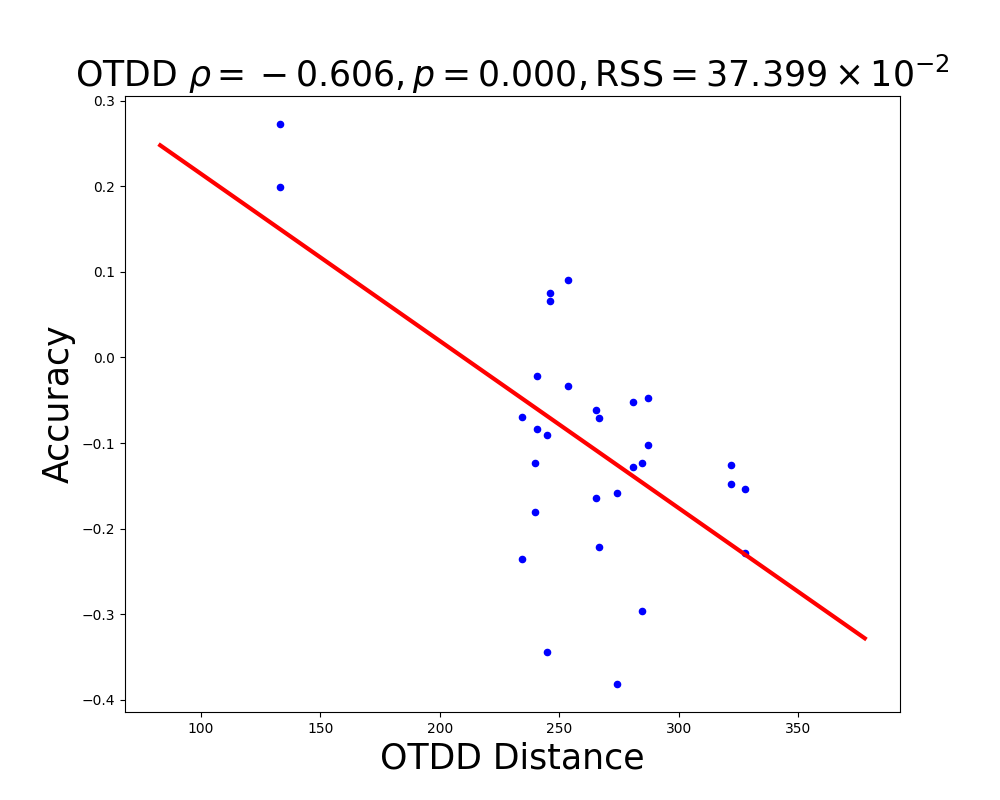
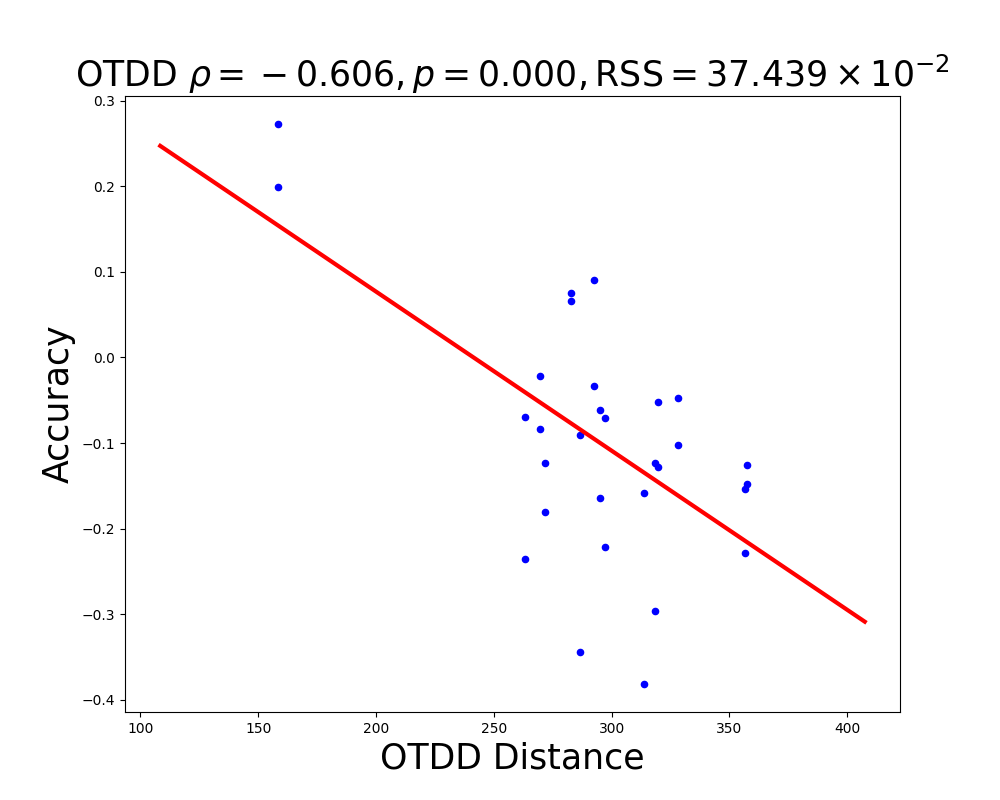
h

diff --git a/split_mnist.py b/split_mnist.py
@@ -100,7 +100,7 @@ def main():
 
     dataloaders = []
     for subset in subsets:
-        dataloader = DataLoader(subset, batch_size=32, shuffle=True)
+        dataloader = DataLoader(subset, batch_size=128, shuffle=True)
         dataloaders.append(dataloader)
 
 
@@ -112,7 +112,7 @@ def main():
     kwargs = {
         "dimension": 784,
         "num_channels": 1,
-        "num_moments": 8,
+        "num_moments": 5,
         "use_conv": False,
         "precision": "float",
         "p": 2,
@@ -160,9 +160,39 @@ def main():
     with open(f'{save_dir}/time_running.txt', 'a') as file:
         file.write(f"Time proccesing for OTDD (exact): {otdd_time_taken} \n")
 
+
+
+
     # OTDD
     dict_OTDD = torch.zeros(len(dataloaders), len(dataloaders))
-    print("Compute OTDD (gaussian_approx)...")
+    print("Compute OTDD (gaussian_approx, iter 20)...")
+    start_time_otdd = time.time()
+    for i in range(len(dataloaders)):
+        for j in range(i+1, len(dataloaders)):
+            start_time_otdd = time.time()
+            dist = DatasetDistance(dataloaders[i],
+                                    dataloaders[j],
+                                    inner_ot_method='gaussian_approx',
+                                    debiased_loss=True,
+                                    p=2,
+                                    sqrt_method='approximate',
+                                    nworkers_stats=0,
+                                    sqrt_niters=20,
+                                    entreg=1e-3,
+                                    device=DEVICE)
+            d = dist.distance(maxsamples=None).item()
+            dict_OTDD[i][j] = d
+            dict_OTDD[j][i] = d
+    end_time_otdd = time.time()
+    otdd_time_taken = end_time_otdd - start_time_otdd
+    torch.save(dict_OTDD, f'{save_dir}/ga_otdd_dist.pt')
+    with open(f'{save_dir}/time_running.txt', 'a') as file:
+        file.write(f"Time proccesing for OTDD (gaussian_approx, iter 20): {otdd_time_taken} \n")
+
+
+
+    dict_OTDD = torch.zeros(len(dataloaders), len(dataloaders))
+    print("Compute OTDD (gaussian_approx, iter 10)...")
     start_time_otdd = time.time()
     for i in range(len(dataloaders)):
         for j in range(i+1, len(dataloaders)):
@@ -180,14 +210,14 @@ def main():
             d = dist.distance(maxsamples=None).item()
             dict_OTDD[i][j] = d
             dict_OTDD[j][i] = d
-
     end_time_otdd = time.time()
     otdd_time_taken = end_time_otdd - start_time_otdd
-    print(otdd_time_taken)
-
     torch.save(dict_OTDD, f'{save_dir}/ga_otdd_dist.pt')
     with open(f'{save_dir}/time_running.txt', 'a') as file:
-        file.write(f"Time proccesing for OTDD (gaussian_approx): {otdd_time_taken} \n")
+        file.write(f"Time proccesing for OTDD (gaussian_approx, iter 10): {otdd_time_taken} \n")
+
+
+
 
 if __name__ == "__main__":
     main()

diff --git a/text_dist.py b/text_dist.py
@@ -16,19 +16,19 @@ import argparse
 DEVICE = torch.device("cuda" if torch.cuda.is_available() else "cpu")
 print(f"Use CUDA or not: {DEVICE}")
 
-NUM_EXAMPLES = 100
+NUM_EXAMPLES = 1000
 
 # ["AG_NEWS", "DBpedia", "YelpReviewPolarity", "YelpReviewFull", "YahooAnswers", "AmazonReviewPolarity", "AmazonReviewFull"]
 DATASET_NAMES = ["AG_NEWS", "DBpedia", "YelpReviewPolarity", "YelpReviewFull", "YahooAnswers", "AmazonReviewPolarity", "AmazonReviewFull"]
 TARGET_NAMES = ["AG_NEWS", "DBpedia", "YelpReviewPolarity", "YelpReviewFull", "YahooAnswers", "AmazonReviewPolarity", "AmazonReviewFull"]
 
-parent_dir = f"saved_text_dist2/text_cls/dist"
+parent_dir = f"saved_text_dist/text_cls/dist"
 os.makedirs(parent_dir, exist_ok=True)
 
 method = None
 method2 = None
-method = "OTDD"
-# method2 = "sOTDD"
+# method = "OTDD"
+method2 = "sOTDD"
 
 def main():
 
@@ -81,18 +81,18 @@ def main():
                                         inner_ot_method='gaussian_approx',
                                         sqrt_method='approximate',
                                         nworkers_stats=0,
-                                        sqrt_niters=2,
+                                        sqrt_niters=20,
                                         debiased_loss=True,
                                         p=2,
                                         entreg=1e-3,
-                                        device='cpu')
+                                        device=DEVICE)
                 d = dist.distance(maxsamples=None)
                 del dist
                 OTDD_DIST[data_target][data_source] = d.item()
                 OTDD_DIST[data_source][data_target] = d.item()
                 print(f"Data source: {data_source}, Data target: {data_target}, Distance: {d}")
 
-        dist_file_path = f'{parent_dir}/{method}_text_dist.json'
+        dist_file_path = f'{parent_dir}/{method}_20_text_dist.json'
         with open(dist_file_path, 'w') as json_file:
             json.dump(OTDD_DIST, json_file, indent=4)
         print(f"Finish computing OTDD")

diff --git a/text_eval.py b/text_eval.py
@@ -19,8 +19,8 @@ else:
 parent_dir = "saved/text_cls_new"
 baseline_result_path = f"{parent_dir}/baseline_new/accuracy.txt"
 adapt_result_path = f"{parent_dir}/adapt_weights/adapt_result.txt"
-text_dist_path = f"{parent_dir}/dist/{method}_text_dist.json"
-
+# text_dist_path = f"{parent_dir}/dist/{method}_text_dist.json"
+text_dist_path = "saved_text_dist/text_cls/dist/OTDD_20_text_dist.json"
 
 # read text distance
 with open(text_dist_path, "r") as file:
